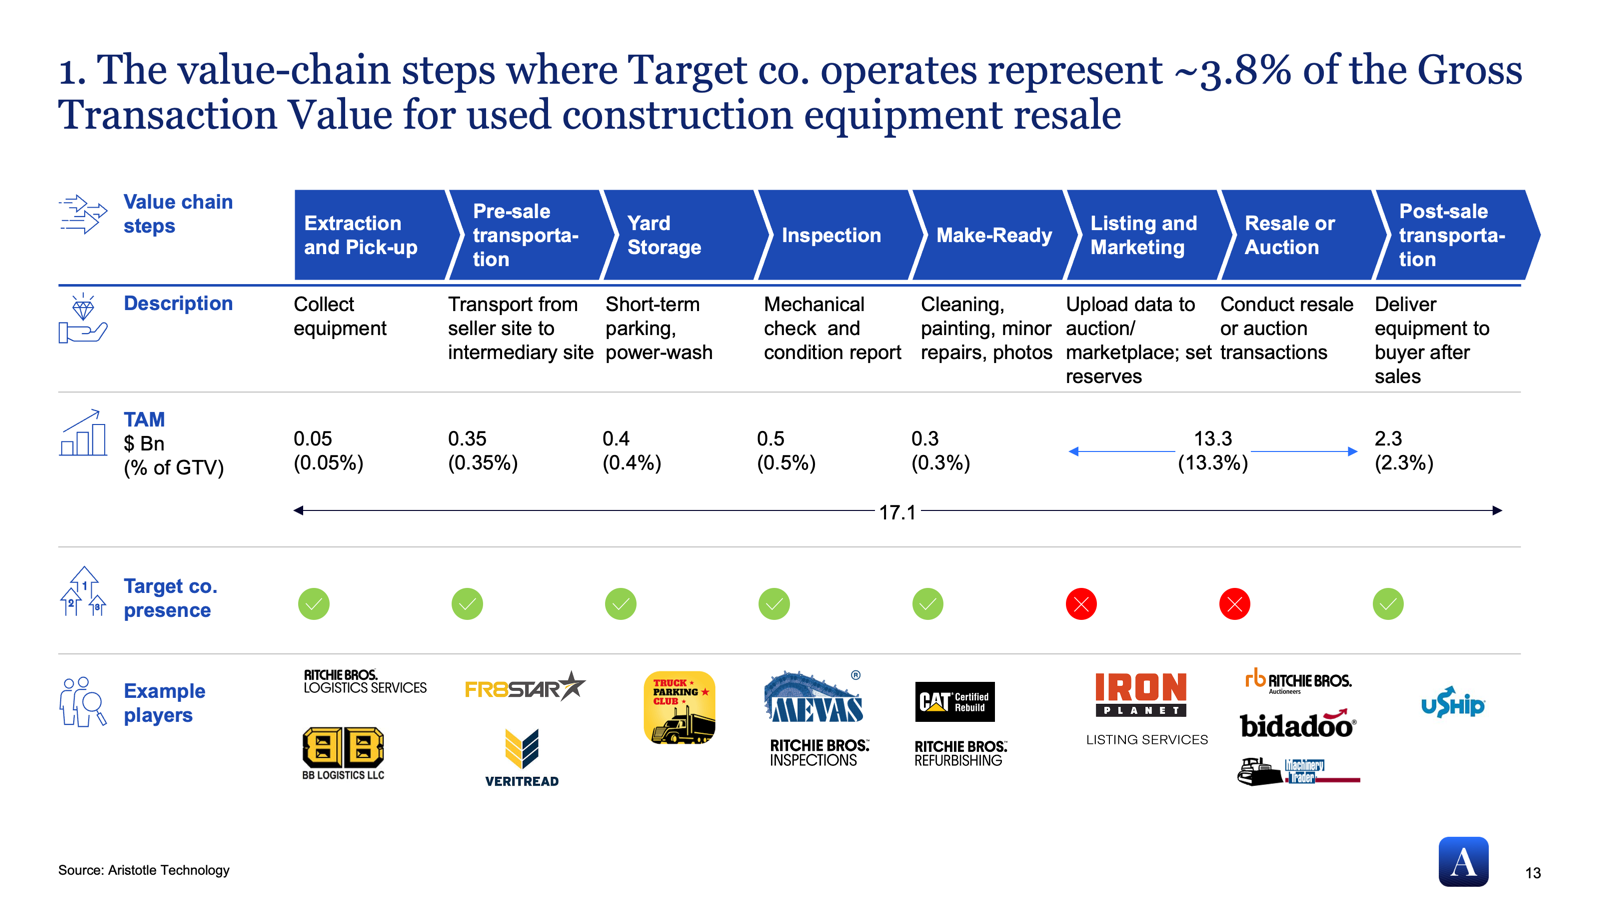
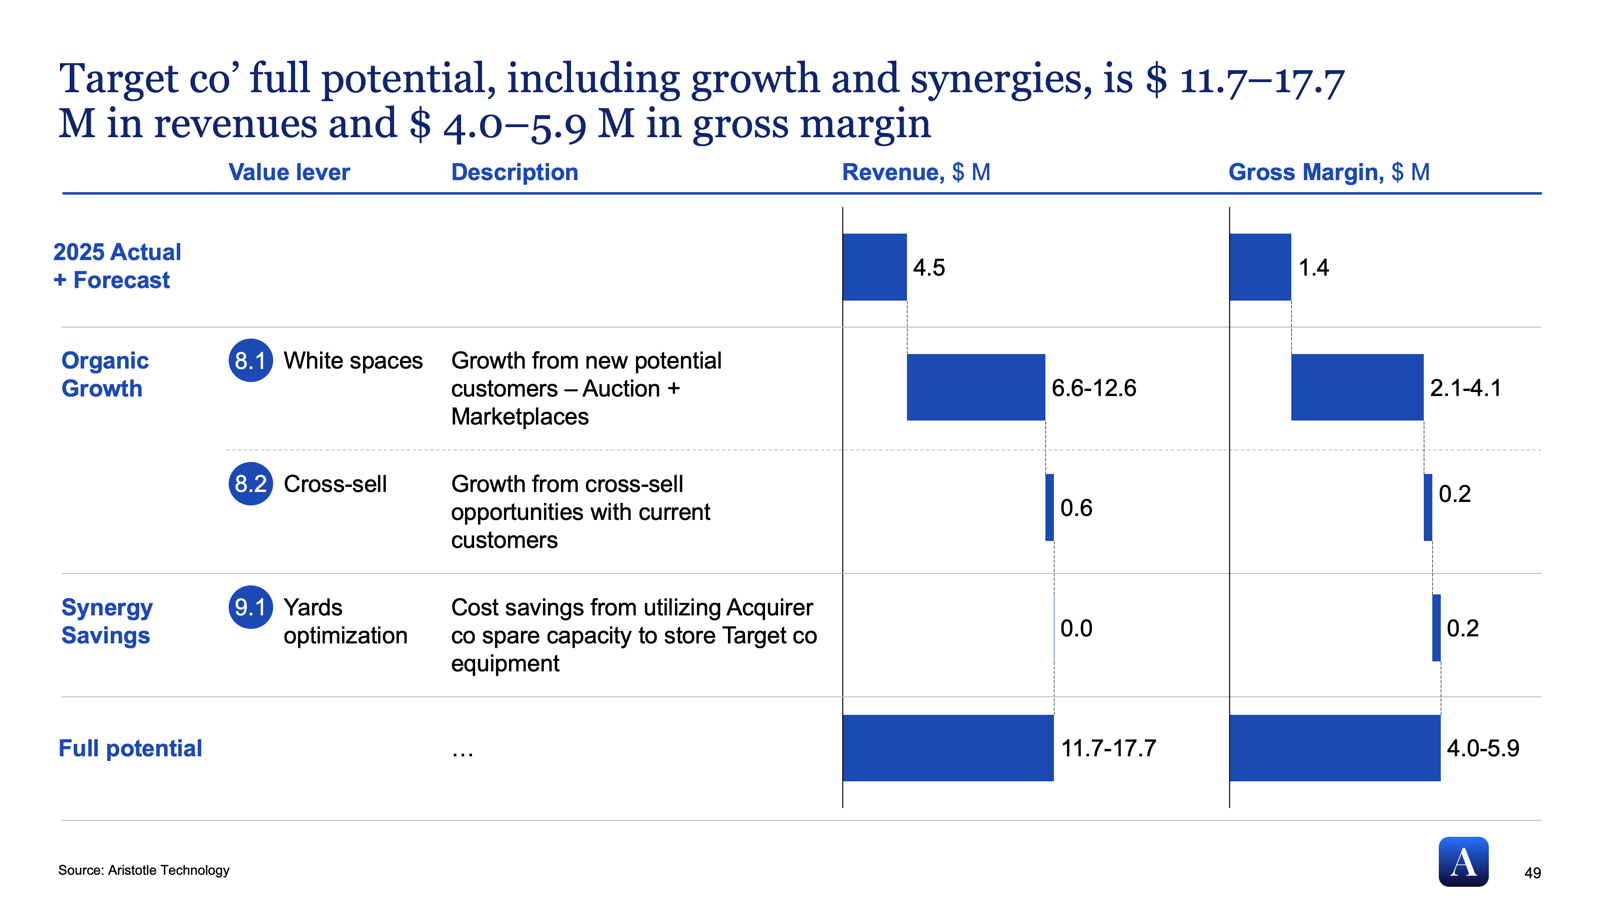
Opportunity slides: strip '8 and 9.' / '8.1' / '8.2' prefixes; drop pricing PNGs
- Patch opportunity slide_1/2/3 titles in-place: shift line 1 left to remove the leading
  source-deck section prefixes ('8 and 9.', '8.1', '8.2'); preserves original font rendering.
- Update opportunity alt text to match the actual full-potential / white-space / cross-sell
  content (previously described the older value-chain / TAM deck).
- Remove pricing deck PNGs (platform-ask, platform-present, slide_1, slide_2) and replace
  the Pricing carousel entries with placeholder slides matching the forecasting / growth-
  analytics pattern.

diff --git a/index.html b/index.html
@@ -165,13 +165,13 @@
             <div class="carousel-viewport">
               <div class="carousel-track">
                 <div class="carousel-slide">
-                  <img class="slide-image" src="images/decks/opportunity/slide_1.png" alt="Value-chain map for used construction equipment resale: 8 stages from Extraction to Post-sale transportation, with TAM ($Bn and % of GTV) per stage and Target co. presence checks. Total TAM $17.1B; Target co. covers 5 of 8 stages.">
+                  <img class="slide-image" src="images/decks/opportunity/slide_1.png" alt="Target co. full potential including growth and synergies: $11.7-17.7M in revenues and $4.0-5.9M in gross margin. Value-lever waterfall from 2025 Actual+Forecast ($4.5M revenue, $1.4M GM) through Organic Growth (White spaces $6.6-12.6M, Cross-sell $0.6M) and Synergy Savings (Yards optimization).">
                 </div>
                 <div class="carousel-slide">
-                  <img class="slide-image" src="images/decks/opportunity/slide_2.png" alt="Market-sizing breakdown for used construction equipment resale: TAM $17.1B → SAM $3.8B → SOM $0.3-0.8B, with side-by-side definitions across geography, segments, channels, value-chain steps, and service coordinators.">
+                  <img class="slide-image" src="images/decks/opportunity/slide_2.png" alt="White space potential among top 8 marketplace players estimated at $2.6-4.6M. Table compares GTV, SAM equivalent, target co. addressable market share, and white-space potential per key player (Trader Interactive, RB Global, Liquidity, My Little Salesman, MB, Boom &amp; Bucket, Rock Global) with commentary on logistics broker and in-house services.">
                 </div>
                 <div class="carousel-slide">
-                  <img class="slide-image" src="images/decks/opportunity/slide_3.png" alt="TAM waterfall by value-chain stage, $Bn, stacked by Construction (light) and Trucks &amp; Trailers (dark): $3.8B serviceable market across pre-sale transportation, storage, inspection, make-ready, and post-sale transportation; adjacent Resale/Auction layer is $13.3B; total TAM $17.1B.">
+                  <img class="slide-image" src="images/decks/opportunity/slide_3.png" alt="Target co. can capture up to $0.6M additional revenues from cross-sell opportunities. Stacked bar of cross-sell potential ($601k total: Pre-sale transportation $472k, Make-ready $118k, Inspection $11k) with main opportunities per customer: Bidadoo +$370k in pre-sale transportation, RB Global +$90k in make-ready, Black Star +$100k in pre-sale transportation.">
                 </div>
               </div>
             </div>
@@ -193,10 +193,16 @@
             <div class="carousel-viewport">
               <div class="carousel-track">
                 <div class="carousel-slide">
-                  <img class="slide-image" src="images/decks/pricing/platform-ask.png" alt="Ask Aristotle: an analyst types a pricing question in plain English — 'Find the top 30 accounts with the largest FY2025 revenue declines vs FY2024' — and the platform returns the top-decliners table and a chart of revenue change by account.">
+                  <div class="slide-placeholder">
+                    <div class="placeholder-eyebrow">Slide 1 · Placeholder</div>
+                    <div class="placeholder-body">Plain-English Queries<br><span>pricing questions answered in seconds</span></div>
+                  </div>
                 </div>
                 <div class="carousel-slide">
-                  <img class="slide-image" src="images/decks/pricing/platform-present.png" alt="Aristotle output: the same analysis rendered as a board-ready insight slide. Headline reads 'Pricing leakage is concentrated in Bucket 1, where BU price indices fall to ~48-56 versus a ~62 average and ~70-79 best levels, making targeted repricing the clearest lever.' Heatmap by business unit and pricing bucket, with a key-takeaway bullet.">
+                  <div class="slide-placeholder">
+                    <div class="placeholder-eyebrow">Slide 2 · Placeholder</div>
+                    <div class="placeholder-body">Pricing Leakage Heatmap<br><span>by business unit &amp; bucket</span></div>
+                  </div>
                 </div>
               </div>
             </div>
